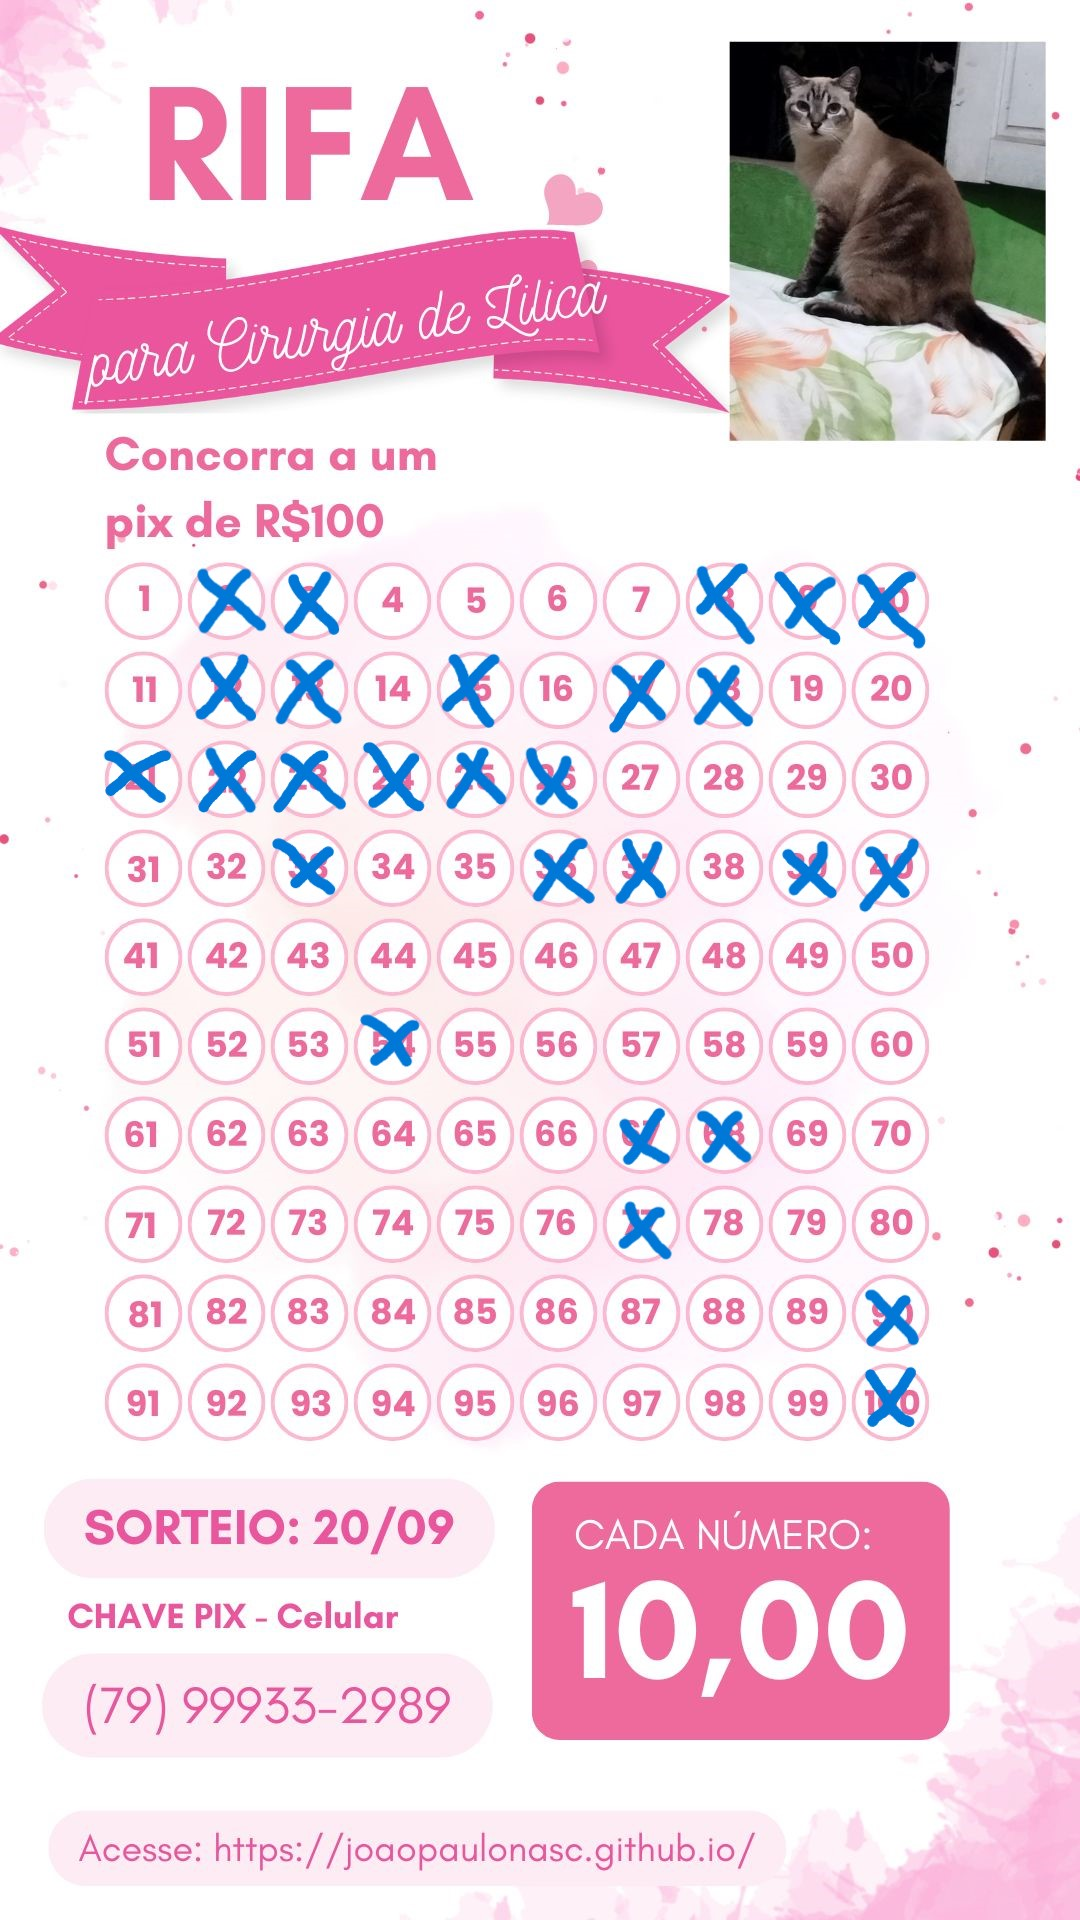
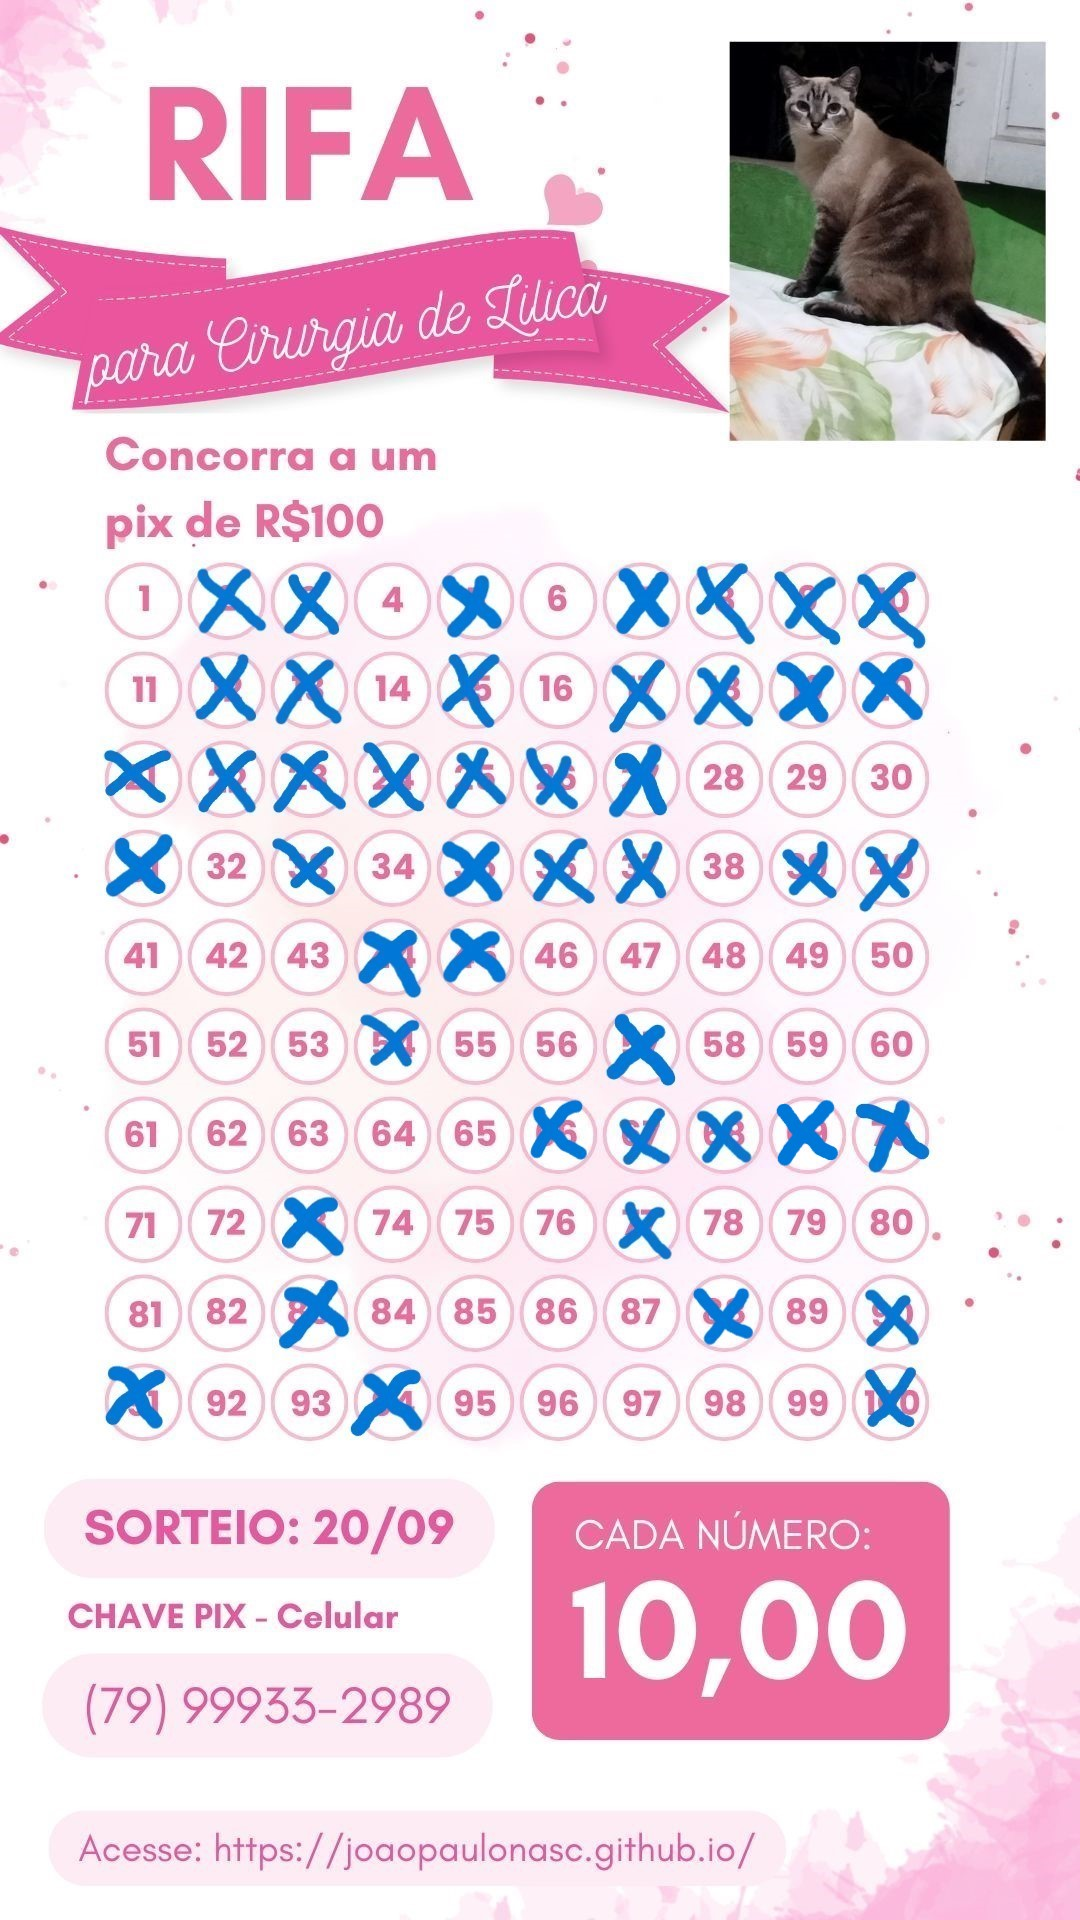
atualização17092024

diff --git a/index.html b/index.html
@@ -26,7 +26,7 @@
          </br> </br> 
         Desde já eu
         agradeço a ajuda de todos. </br> </br> 
-        Obs: 5 Beneficiários compraram e não quiseram escolher números, que não estão marcados da rifa para outros que comprarem poder ficar à vontade para escolher quaisquer números disponíveis.
+        Obs: Lilica já passou pela cicurgia, mas ainda falta pagar uma parte, desde já agradeço muito.
       </p> 
     </div>
      <!-- <div class="img0">
@@ -67,14 +67,14 @@
           <td>16/08/2024</td>
           <td>Fabiano</td>
           <td>R$ 10,00</td>
-          <td>?</td>
+          <td>44</td>
         </tr>
         <tr>
           <td>4</td>
           <td>16/08/2024</td>
           <td>Jonathan</td>
           <td>R$ 10,00</td>
-          <td>3</td>
+          <td>3, 69</td>
         </tr>
         <tr>
           <td>5</td>
@@ -88,7 +88,7 @@
           <td>16/08/2024</td>
           <td>Gilvânia</td>
           <td>R$ 40,00</td>
-          <td>?, ?, ?, ?</td>
+          <td>91, 5, 19, 57</td>
         </tr>
         <td>7</td>
           <td>16/08/2024</td>
@@ -106,7 +106,7 @@
           <td>16/08/2024</td>
           <td>Jorge</td>
           <td>R$ 20,00</td>
-          <td>?, ?</td>
+          <td>31, 35</td>
         </tr>
         <td>10</td>
           <td>16/08/2024</td>
@@ -124,7 +124,7 @@
           <td>19/08/2024</td>
           <td>Lucky</td>
           <td>R$ 20,00</td>
-          <td>2, 22</td>
+          <td>2, 22, 66, 88</td>
         </tr>
         <td>13</td>
           <td>19/08/2024</td>
@@ -160,7 +160,7 @@
           <td>31/08/2024</td>
           <td>Kaique</td>
           <td>R$ 20,00</td>
-          <td>?, ?</td>
+          <td>20, 45</td>
         </tr>
         <td>19</td>
           <td>31/08/2024</td>
@@ -191,6 +191,18 @@
           <td>Liliane</td>
           <td>R$ 10,00</td>
           <td>25</td>
+        </tr>
+        <td>24</td>
+          <td>10/09/2024</td>
+          <td>Liliane</td>
+          <td>R$ 10,00</td>
+          <td>27</td>
+        </tr>
+        <td>25</td>
+          <td>17/09/2024</td>
+          <td>Gilvânia</td>
+          <td>R$ 50,00</td>
+          <td>7, 94, 83, 70, 73</td>
         </tr>
         <!-- Adicione mais linhas conforme necessário -->
       </table>
